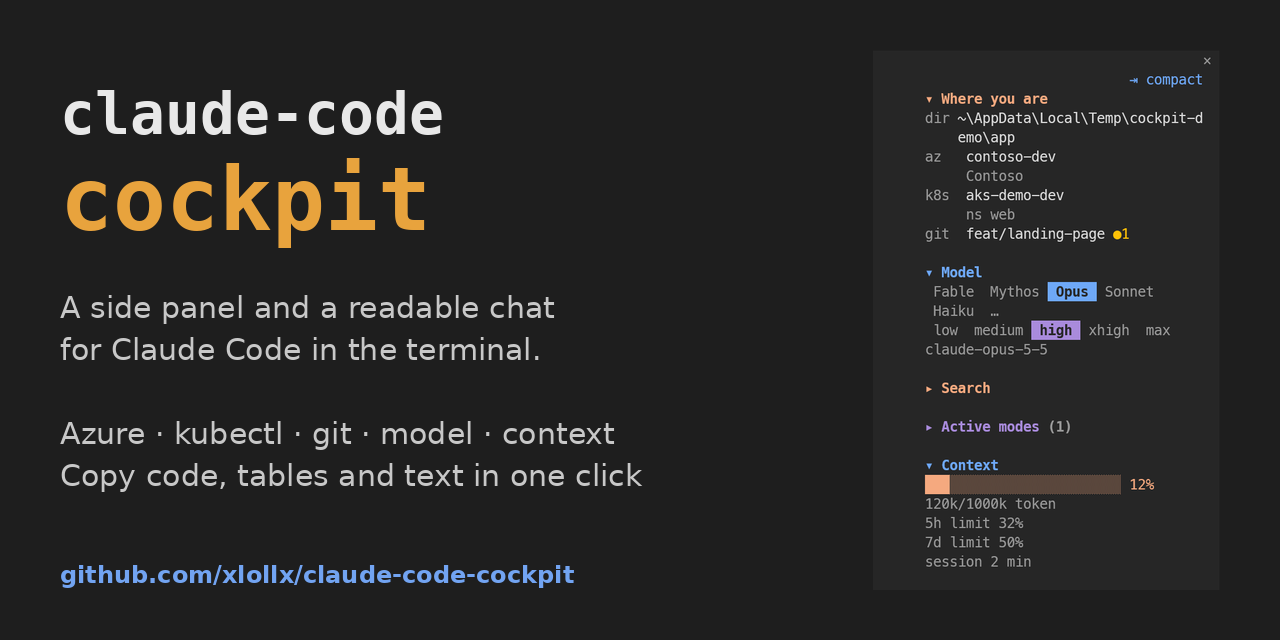
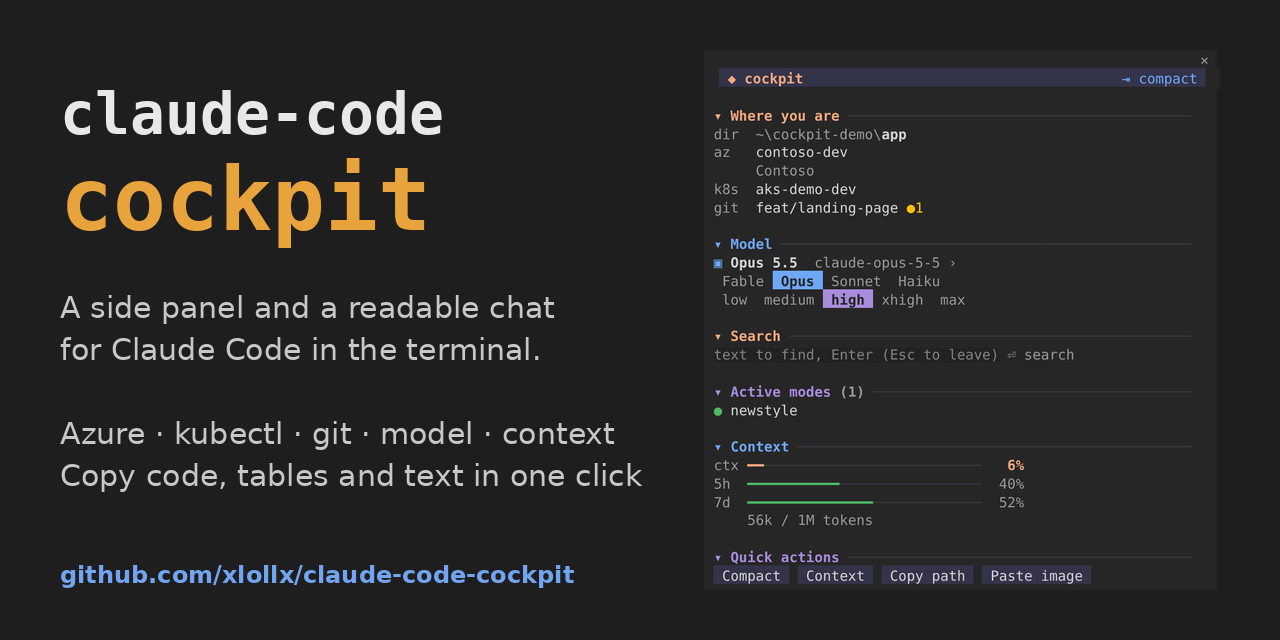
feat: panel redesign (pane width, exact section rules, chips, aligned meters, model name with id, footer), new screenshots and demo GIF
- measure the pane's own width (bodyColumns), so long session names and paths are cut instead of wrapping
- section rules of exact length (no trailing ellipsis), folded sections dimmed and stacked
- Quick actions and compact band buttons as chips instead of [ brackets ]
- context, 5h and 7d as three aligned thin meters; tokens as 56k / 1M
- Model: readable name and exact id on one line, click opens the picker
- footer with a rule and the session time
- glyphs that Windows Terminal draws double width replaced (⏳ ⏸ ⚠ ⏰)
- search hits without markdown markers

Claude-Session: https://claude.ai/code/session_01H9XCFzxYvkbkopXCq5uiUw

diff --git a/hooks/register.tsx b/hooks/register.tsx
@@ -912,13 +912,10 @@ function applyOptions(options: Readonly<Record<string, unknown>>) {
   }
 }
 
-const kTok = (n?: number) => (n === undefined ? '?' : n >= 1000 ? `${Math.round(n / 1000)}k` : `${n}`)
+const kTok = (n?: number) =>
+  n === undefined ? '?' : n >= 1e6 ? `${+(n / 1e6).toFixed(1)}M` : n >= 1000 ? `${Math.round(n / 1000)}k` : `${n}`
 const short = (p: string) => p.replace(/\\/g, '/').split('/').slice(-2).join('/')
 const cut = (s: string, n: number) => (s.length > n ? s.slice(0, Math.max(1, n - 1)) + '…' : s)
-const bar = (pct: number, width: number) => {
-  const full = Math.round((Math.min(100, Math.max(0, pct)) / 100) * width)
-  return '█'.repeat(full) + '░'.repeat(Math.max(0, width - full))
-}
 const dur = (ms: number) => {
   const s = ms / 1000
   if (s < 10) return `${s.toFixed(1)}s`
@@ -1933,19 +1930,23 @@ async function miniView($: EngineInterface, els: { Box: any; Button: any; Text: 
         )}
       </Box>
       <Box flexDirection="row" flexWrap="wrap">
-        <Button key="model-i" onPress={() => void openPicker($, 'model')}>
-          <Text bold>{prettyModel(u?.model)}</Text>
+        <Button key="model-i" plain onPress={() => void openPicker($, 'model')}>
+          <Text bold backgroundColor={HEAD_BG}>{` ${prettyModel(u?.model)} `}</Text>
         </Button>
         <Text> </Text>
-        <Button key="effort-i" onPress={() => void openPicker($, 'effort')}>
-          <Text color={VIOLET}>{eff ?? 'effort'}</Text>
+        <Button key="effort-i" plain onPress={() => void openPicker($, 'effort')}>
+          <Text color={VIOLET} backgroundColor={HEAD_BG}>{` ${eff ?? 'effort'} `}</Text>
         </Button>
         {sep}
-        <Text color={pctColor}>{bar(pct, 10)} {Math.round(pct)}%</Text>
+        <Text>
+          <Text color={pctColor}>{'━'.repeat(Math.round((Math.min(100, Math.max(0, pct)) / 100) * 10))}</Text>
+          <Text color={TURN_RULE}>{'─'.repeat(10 - Math.round((Math.min(100, Math.max(0, pct)) / 100) * 10))}</Text>
+          <Text color={pctColor} bold> {Math.round(pct)}%</Text>
+        </Text>
         {pl > 0 && (
           <Text>
             {sep}
-            <Text color="warning">⏳ {pl} pipeline{pl === 1 ? '' : 's'}</Text>
+            <Text color="warning">◐ {pl} pipeline{pl === 1 ? '' : 's'}</Text>
           </Text>
         )}
         {wr.length > 0 && (
@@ -1958,7 +1959,7 @@ async function miniView($: EngineInterface, els: { Box: any; Button: any; Text: 
         {rem.length > 0 && (
           <Text>
             {sep}
-            <Text color={rem.some(r => r.due <= today) ? 'error' : 'warning'}>⏰ {rem.length}</Text>
+            <Text color={rem.some(r => r.due <= today) ? 'error' : 'warning'}>◷ {rem.length}</Text>
           </Text>
         )}
         {others > 0 && <Text>{sep}<Text dimColor>{others} other session{others === 1 ? '' : 's'}</Text></Text>}
@@ -2586,16 +2587,17 @@ export const register: Register = (on, options) => {
     const list = await read($, files)
     const act = await read($, modes)
     const ns = await read($, enabled)
-    const cols = Math.max(20, (e.viewport?.columns ?? 40) - 4)
-    const barW = Math.max(8, Math.min(24, cols - 10))
+    // usable cells: the pane's own body (not the transcript's width) minus our padding (2 + 2)
+    const cols = Math.max(20, (e.props.bodyColumns ?? e.viewport?.columns ?? 40) - 4)
+    const barW = Math.max(6, Math.min(28, cols - 10))
     const tone = (p: number) => (p >= 80 ? 'error' : p >= 60 ? 'warning' : 'success')
     // filled part in colour, empty part as a faint track
     const meter = (p: number, width: number, color: string) => {
       const full = Math.round((Math.min(100, Math.max(0, p)) / 100) * width)
       return (
         <Text>
-          <Text color={color}>{'█'.repeat(full)}</Text>
-          <Text color={TURN_RULE}>{'█'.repeat(Math.max(0, width - full))}</Text>
+          <Text color={color}>{'━'.repeat(full)}</Text>
+          <Text color={TURN_RULE}>{'─'.repeat(Math.max(0, width - full))}</Text>
         </Text>
       )
     }
@@ -2629,19 +2631,22 @@ export const register: Register = (on, options) => {
       }
       const isClosed = closed.includes(id)
 
+      const label = `${isClosed ? '▸' : '▾'} ${title}`
+      const badge = count ? ` (${count})` : ''
+      // exact length (a clipped rule would end in the terminal's ellipsis), one spare cell
+      const rule = Math.max(0, cols - label.length - badge.length - 2)
+
       return (
-        <Box flexDirection="column" marginBottom={1}>
+        // folded sections stack without a blank line between them
+        <Box flexDirection="column" marginBottom={isClosed ? 0 : 1}>
           <Box flexDirection="row">
             <Button key={`sec-${id}`} plain onPress={() => void toggleSection($, id)}>
-              <Text bold color={color}>
-                {isClosed ? '▸' : '▾'} {title}
-                {count !== undefined ? <Text dimColor> ({count})</Text> : ''}
+              <Text bold color={isClosed ? undefined : color} dimColor={isClosed}>
+                {label}
+                <Text dimColor bold={false}>{badge}</Text>
               </Text>
             </Button>
-            {/* a faint rule from the title to the panel's edge, cut where the room ends */}
-            <Box flexGrow={1} flexShrink={1} marginLeft={1} overflow="hidden">
-              <Text color={TURN_RULE} wrap="clip">{'─'.repeat(160)}</Text>
-            </Box>
+            <Text color={TURN_RULE}> {'─'.repeat(rule)}</Text>
           </Box>
           {!isClosed && body}
         </Box>
@@ -2655,18 +2660,21 @@ export const register: Register = (on, options) => {
     }))
     const modelValue = fam
     const effortValue = eff !== null && (EFFORTS as readonly string[]).includes(eff) ? eff : undefined
+    // padded pills when the row fits, plain words one space apart when it does not
+    const tightM = modelOptions.reduce((n, o) => n + o.label.length + 2, 0) > cols
+    const tightE = EFFORTS.reduce((n, x) => n + x.length + 2, 0) > cols
 
     return (
       // at least as tall as the panel, so the footer sits on its bottom edge when the
       // sections are short (when they are longer it follows them)
-      <Box flexDirection="column" paddingLeft={6} paddingRight={2} minHeight={Math.max(1, e.props.scroll.bodyRows)}>
+      <Box flexDirection="column" paddingLeft={2} paddingRight={2} minHeight={Math.max(1, e.props.scroll.bodyRows)}>
         {/* next to the panel's ✕: shrink the panel to a narrow summary */}
-        <Box flexDirection="row" justifyContent="space-between" marginBottom={1}>
+        <Box flexDirection="row" justifyContent="space-between" marginBottom={1} backgroundColor={HEAD_BG} paddingX={1}>
           <Text>
             <Text color={ACCENT} bold>◆ cockpit</Text>
           </Text>
           <Button key="compact" plain onPress={() => void toggleCompact($)}>
-            <Text color={BLUE}>⇥ compact</Text>
+            <Text color={BLUE}>{cols >= 30 ? '⇥ compact' : '⇥'}</Text>
           </Button>
         </Box>
         {section('dove', 'Where you are', ACCENT, undefined,
@@ -2712,33 +2720,39 @@ export const register: Register = (on, options) => {
 
         {section('modello', 'Model', BLUE, undefined,
           <Box flexDirection="column">
+            {/* the current model, readable name first and the exact id after it; a press opens Claude Code's picker */}
+            <Button key="m-more" plain onPress={() => void openPicker($, 'model')}>
+              <Text>
+                <Text color={BLUE}>▣ </Text>
+                <Text bold>{prettyModel(u?.model)}</Text>
+                {u?.model !== undefined && prettyModel(u.model) !== u.model && (
+                  <Text dimColor>  {cut(u.model, Math.max(4, cols - prettyModel(u.model).length - 6))}</Text>
+                )}
+                <Text dimColor> ›</Text>
+              </Text>
+            </Button>
             {/* side-by-side buttons instead of a Select: the Select grabs the keyboard and only closes with Esc */}
-            <Box flexDirection="row" flexWrap="wrap">
+            <Box flexDirection="row" flexWrap="wrap" columnGap={tightM ? 1 : 0}>
               {modelOptions.map(o => {
                 const sel = o.family === modelValue
                 return (
                   <Button key={`m-${o.family}`} plain onPress={() => void setModel($, o.value)}>
                     <Text color={sel ? BLUE : undefined} bold={sel} inverse={sel} dimColor={!sel}>
-                      {` ${o.label} `}
+                      {tightM ? o.label : ` ${o.label} `}
                     </Text>
                   </Button>
                 )
               })}
-              {/* Claude Code's picker: complete and always up to date */}
-              <Button key="m-more" plain onPress={() => void openPicker($, 'model')}>
-                <Text dimColor>{' … '}</Text>
-              </Button>
             </Box>
-            <Box flexDirection="row" flexWrap="wrap">
+            <Box flexDirection="row" flexWrap="wrap" columnGap={tightE ? 1 : 0}>
               {EFFORTS.map(x => (
                 <Button key={`e-${x}`} plain onPress={() => void setEffort($, x)}>
                   <Text color={x === effortValue ? VIOLET : undefined} bold={x === effortValue} inverse={x === effortValue} dimColor={x !== effortValue}>
-                    {` ${x} `}
+                    {tightE ? x : ` ${x} `}
                   </Text>
                 </Button>
               ))}
             </Box>
-            <Text dimColor>{cut(u?.model ?? '', cols)}</Text>
           </Box>,
         )}
 
@@ -2761,9 +2775,9 @@ export const register: Register = (on, options) => {
                   <Button key={`hit-${found.page}-${n}`} plain onPress={() => void jumpTo($, hit.probe, hit.match)}>
                     <Text>
                       <Text color={hit.role === 'user' ? BLUE : VIOLET}>{hit.role === 'user' ? 'you ' : 'claude '}</Text>
-                      <Text dimColor>{cut(hit.before, 24)}</Text>
+                      <Text dimColor>{cut(hit.before.replace(/[*`]/g, ''), 24)}</Text>
                       <Text bold color={ACCENT}>{hit.match}</Text>
-                      <Text dimColor>{cut(hit.after, Math.max(10, cols - 34 - hit.match.length))}</Text>
+                      <Text dimColor>{cut(hit.after.replace(/[*`]/g, ''), Math.max(10, cols - 34 - hit.match.length))}</Text>
                     </Text>
                   </Button>
                 ))}
@@ -2798,8 +2812,8 @@ export const register: Register = (on, options) => {
                 >
                   <Text>
                     <Text color={x.status === 'busy' ? 'warning' : 'success'}>{x.sessionId === target ? '▸ ' : '● '}</Text>
-                    <Text bold={x.sessionId === target}>{cut(x.name, cols - 10)}</Text>
-                    <Text dimColor> {x.status}</Text>
+                    <Text bold={x.sessionId === target}>{cut(x.name, cols - (x.status === 'busy' ? 7 : 2))}</Text>
+                    {x.status === 'busy' && <Text color="warning"> busy</Text>}
                   </Text>
                 </Button>
               ))}
@@ -2848,58 +2862,50 @@ export const register: Register = (on, options) => {
 
         {section('contesto', 'Context', BLUE, undefined,
           <Box flexDirection="column">
-            <Text>
-              {meter(pct, barW, pctColor)}
-              <Text color={pctColor} bold> {Math.round(pct)}%</Text>
-            </Text>
-            <Text dimColor>
-              {kTok(u?.tokens)}/{kTok(u?.window)} token
-            </Text>
-            {u?.limits.map(l => (
+            {/* three aligned meters: the context in its own colour, the plan limits green -> yellow -> red */}
+            {([
+              ['ctx', pct, pctColor, true],
+              ...(u?.limits ?? []).map(l => [l.kind === 'five_hour' ? '5h' : l.kind === 'seven_day' ? '7d' : l.kind, l.percentUsed, tone(l.percentUsed), false]),
+            ] as [string, number, string, boolean][]).map(([name, p, c, strong]) => (
               <Text>
-                <Text dimColor>{(l.kind === 'five_hour' ? '5h' : l.kind === 'seven_day' ? '7d' : l.kind).padEnd(4)}</Text>
-                {meter(l.percentUsed, Math.max(6, barW - 4), tone(l.percentUsed))}
-                <Text dimColor> {Math.round(l.percentUsed)}%</Text>
+                <Text dimColor>{cut(name, 3).padEnd(4)}</Text>
+                {meter(p, barW, c)}
+                <Text color={strong ? c : undefined} bold={strong} dimColor={!strong}>{`${Math.round(p)}%`.padStart(5)}</Text>
               </Text>
             ))}
-            {u?.startedAt !== undefined && <Text dimColor>session {since(now - u.startedAt)}</Text>}
+            <Text dimColor>
+              {'    '}
+              {kTok(u?.tokens)} / {kTok(u?.window)} tokens
+            </Text>
           </Box>,
         )}
 
         {section('azioni', 'Quick actions', VIOLET, undefined,
-          <Box flexDirection="row" flexWrap="wrap">
-            <Box marginRight={1}>
-              <Button key="act-compact" onPress={() => void runOrFill($, 'compact', '')}>
-                <Text>Compact</Text>
-              </Button>
-            </Box>
-            <Box marginRight={1}>
-              <Button key="act-context" onPress={() => void runOrFill($, 'context', '')}>
-                <Text>Context</Text>
-              </Button>
-            </Box>
-            <Box marginRight={1}>
-              <Button
-                key="act-copydir"
-                onPress={async press => {
-                  const r = await $.ui.copy({ text: (await $.session.cwd()), surface: press.surface })
-                  $.ui.toast(r.isCopied ? 'Folder path copied' : 'Copy failed')
-                }}
-              >
-                <Text>Copy path</Text>
-              </Button>
-            </Box>
-            <Box marginRight={1}>
-              <Button key="act-paste" onPress={() => void pasteImage($)}>
-                <Text>Paste image</Text>
-              </Button>
-            </Box>
+          // chips: plain buttons on a tinted background instead of [ bracketed ] ones
+          <Box flexDirection="row" flexWrap="wrap" columnGap={1}>
+            <Button key="act-compact" plain onPress={() => void runOrFill($, 'compact', '')}>
+              <Text backgroundColor={HEAD_BG}>{' Compact '}</Text>
+            </Button>
+            <Button key="act-context" plain onPress={() => void runOrFill($, 'context', '')}>
+              <Text backgroundColor={HEAD_BG}>{' Context '}</Text>
+            </Button>
+            <Button
+              key="act-copydir"
+              plain
+              onPress={async press => {
+                const r = await $.ui.copy({ text: (await $.session.cwd()), surface: press.surface })
+                $.ui.toast(r.isCopied ? 'Folder path copied' : 'Copy failed')
+              }}
+            >
+              <Text backgroundColor={HEAD_BG}>{' Copy path '}</Text>
+            </Button>
+            <Button key="act-paste" plain onPress={() => void pasteImage($)}>
+              <Text backgroundColor={HEAD_BG}>{' Paste image '}</Text>
+            </Button>
             {term === 'pending' && (
-              <Box marginRight={1}>
-                <Button key="act-term" onPress={async () => $.ui.toast(await applyTerminalLook($))}>
-                  <Text color={ACCENT}>Terminal look</Text>
-                </Button>
-              </Box>
+              <Button key="act-term" plain onPress={async () => $.ui.toast(await applyTerminalLook($))}>
+                <Text backgroundColor={HEAD_BG} color={ACCENT}>{' Terminal look '}</Text>
+              </Button>
             )}
           </Box>,
         )}
@@ -2920,10 +2926,10 @@ export const register: Register = (on, options) => {
                     <Text dimColor>reviews </Text>
                     <Text color="success">✓{pull.approved}</Text>
                     <Text color={pull.rejected > 0 ? 'error' : undefined} dimColor={pull.rejected === 0}> ✗{pull.rejected}</Text>
-                    {pull.waiting > 0 && <Text color="warning"> ⏸{pull.waiting}</Text>}
+                    {pull.waiting > 0 && <Text color="warning"> ‖{pull.waiting}</Text>}
                     <Text dimColor>   CI </Text>
                     <Text color={pull.ci === 'passed' ? 'success' : pull.ci === 'failed' ? 'error' : pull.ci === 'running' ? 'warning' : undefined} dimColor={pull.ci === 'none'}>
-                      {pull.ci === 'passed' ? '✓ passed' : pull.ci === 'failed' ? '✗ failed' : pull.ci === 'running' ? '⏳ running' : '—'}
+                      {pull.ci === 'passed' ? '✓ passed' : pull.ci === 'failed' ? '✗ failed' : pull.ci === 'running' ? '◐ running' : '—'}
                     </Text>
                   </Text>
                 </Box>
@@ -2957,7 +2963,7 @@ export const register: Register = (on, options) => {
                 if (r.status === 'error') {
                   return <Text dimColor>{cut(`${r.project}: ${r.error}`, cols)}</Text>
                 }
-                const icon = r.approval ? '⏸' : r.status === 'inProgress' ? '⏳' : r.status === 'notStarted' ? '…' : r.result === 'succeeded' ? '✓' : r.result === 'failed' ? '✗' : r.result === 'partiallySucceeded' ? '⚠' : '⊘'
+                const icon = r.approval ? '‖' : r.status === 'inProgress' ? '◐' : r.status === 'notStarted' ? '…' : r.result === 'succeeded' ? '✓' : r.result === 'failed' ? '✗' : r.result === 'partiallySucceeded' ? '!' : '⊘'
                 const tone = r.approval || r.status === 'inProgress' ? 'warning' : r.result === 'succeeded' ? 'success' : r.result === 'failed' ? 'error' : r.result === 'partiallySucceeded' ? 'warning' : undefined
                 const ago = since(now - (r.finished || r.queued))
                 return (
@@ -3025,13 +3031,15 @@ export const register: Register = (on, options) => {
         {/* footer, as OpenCode's: which Claude Code, pinned to the bottom by the spacer */}
         <Box flexGrow={1} />
         <Box flexDirection="column" marginTop={1}>
-          {CC_VERSION !== '' && (
+          <Text color={TURN_RULE}>{'─'.repeat(Math.max(0, cols - 1))}</Text>
+          <Box flexDirection="row" justifyContent="space-between">
             <Text>
               <Text color="success">● </Text>
               <Text bold>Claude Code</Text>
-              <Text dimColor> {CC_VERSION}</Text>
+              {CC_VERSION !== '' && <Text dimColor> {CC_VERSION}</Text>}
             </Text>
-          )}
+            {u?.startedAt !== undefined && <Text dimColor>{since(now - u.startedAt)}</Text>}
+          </Box>
         </Box>
       </Box>
     )

diff --git a/README.md b/README.md
@@ -71,7 +71,7 @@ The panel sits on the right of the chat when the terminal is wide enough (about 
 - **Click a section title** to fold or unfold it. Folded sections are remembered across sessions.
 - Sections with nothing to show (no PR, no pipelines, no reminders) stay hidden.
 - Hide sections you never want with the `hiddenSections` option.
-- At the bottom edge: `● Claude Code <version>`, always pinned there while the sections scroll.
+- At the bottom edge: `● Claude Code <version>` and how long the session has been running, always pinned there while the sections scroll.
 - **`⇥ compact`**, at the top next to the panel's `✕`, closes the side panel and shows a 2-line summary above the prompt instead (folder, subscription, kubectl context, branch, model and effort, context, running pipelines, writes, reminders, other sessions), so the chat gets the whole width; `⇤ expand` on that bar, or `/cockpit`, brings the side panel back. The choice is remembered across sessions.
 
 ![Compact mode: the side panel gives way to a 2-line summary above the prompt](docs/compact.png)
@@ -90,10 +90,9 @@ Production is easy to spot: a subscription, context or branch whose name matches
 
 ### Model
 
+- At the top, the model in use: its name (`Opus 5.5`) and the exact id (`claude-opus-5-5`). Click it to open Claude Code's full model picker.
 - One button per model family (`Fable`, `Mythos`, `Opus`, `Sonnet`, `Haiku`...). One click switches model. A new family appears by itself as soon as it is used, or when an agent in `~/.claude/agents` names it in `model:`.
-- `…` opens Claude Code's full model picker.
 - `low medium high xhigh max`: one click sets the effort.
-- Under them, the exact model id in use.
 
 ### Search
 
@@ -122,16 +121,15 @@ Shows which style modes are on, so you never wonder why Claude is answering in a
 
 ### Context
 
-- A fill bar with the percentage of the context window in use, and the tokens (`112k/1000k`).
-- Your 5-hour and 7-day usage limits.
-- How long the session has been running.
+- Three aligned bars: the context window in use (`ctx`), and your 5-hour and 7-day usage limits, which turn yellow at 60% and red at 80%.
+- The tokens in use (`112k / 1M tokens`).
 - At 80% a toast suggests `/compact` before a long task.
 
 ### Pipelines (Azure DevOps)
 
 Runs **you** requested in the last 24 hours, however they were started: portal, `az pipelines run`, REST, a pull request.
 
-- By default only the runs that need attention: **⏳ running or queued**, **⏸ waiting for approval**, **✗ failed**. `pipelinesShow: all` shows every run, finished ones included (✓ succeeded, ⚠ partially succeeded, ⊘ cancelled).
+- By default only the runs that need attention: **◐ running or queued**, **‖ waiting for approval**, **✗ failed**. `pipelinesShow: all` shows every run, finished ones included (✓ succeeded, ! partially succeeded, ⊘ cancelled).
 - At most 4 runs (`pipelinesMax`), each with name, run number, branch and age.
 - Refreshed every minute.
 - Watched projects: the current repo's (when its remote is on Azure DevOps), any project named in a command you run, and those listed in `adoProjects`.
@@ -140,7 +138,7 @@ Runs **you** requested in the last 24 hours, however they were started: portal, 
 
 ### Pull request
 
-The open pull request of the current branch, on GitHub or Azure DevOps: number, title, draft, reviews (✓ approved, ✗ changes requested or rejected, ⏸ waiting) and the CI result.
+The open pull request of the current branch, on GitHub or Azure DevOps: number, title, draft, reviews (✓ approved, ✗ changes requested or rejected, ‖ waiting) and the CI result.
 
 - **Display only**: GET requests, never a change to the pull request.
 - Uses the credential git already holds (Git Credential Manager) and never prompts for a login.
